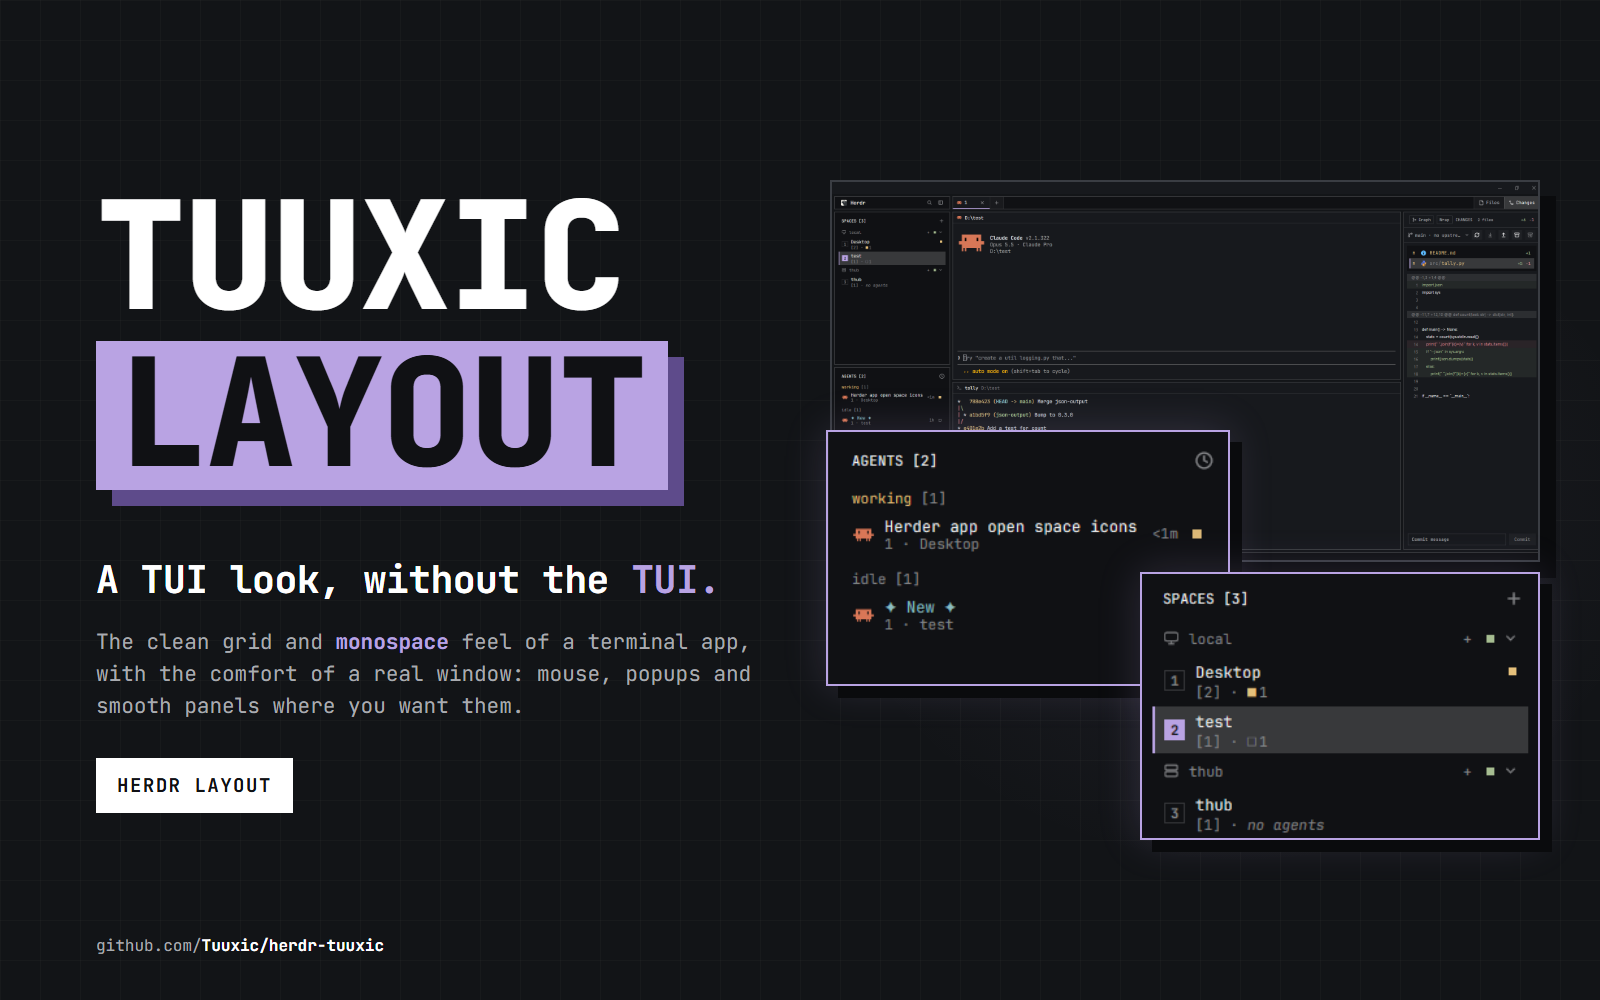
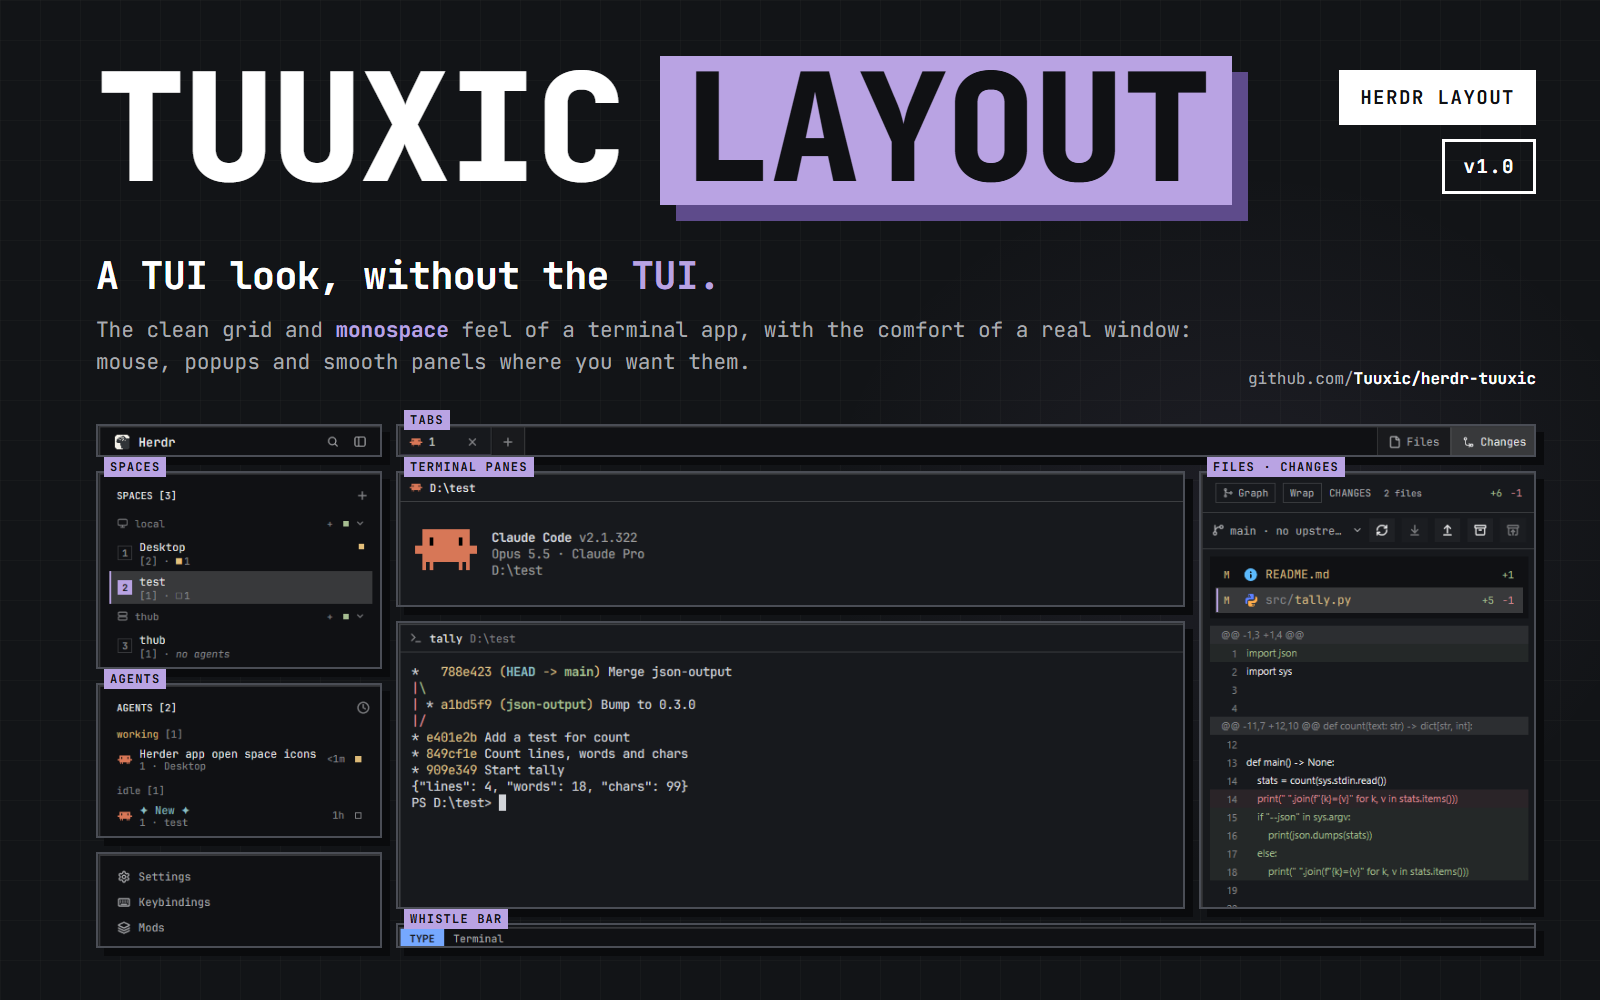
Poster: render E6 to preview.png, with the v1.0 chip and the URL on the body's last line

Changed region(s): [[0.0625, 0.031, 0.9688, 0.961]]

diff --git a/preview-src/poster.css b/preview-src/poster.css
@@ -24,7 +24,7 @@ body {
   position: relative;
 }
 
-/* title band: one-line title, tagline and body, chip and URL at the right */
+/* title band: one-line title, tagline and body; chips at the right, URL right-aligned on the body's last line */
 .title {
   position: absolute; left: 96px; top: 56px;
   font-weight: 800; line-height: 0.9; letter-spacing: -2px; white-space: nowrap;
@@ -46,7 +46,7 @@ body {
 .chip { font-size: 19px; font-weight: 700; letter-spacing: 1.5px; padding: 12px 18px; border: 3px solid var(--fg); }
 .chip.solid { background: var(--fg); color: #101114; }
 
-.url { position: absolute; right: 64px; top: 262px; font-size: 16px; color: var(--muted); }
+.url { position: absolute; right: 64px; top: 368px; font-size: 16px; color: var(--muted); }
 .url b { color: var(--fg); font-weight: 700; }
 
 /* layout blocks: crops of shot.png, pulled apart, each img positioned to show its block */

diff --git a/preview-src/index.html b/preview-src/index.html
@@ -8,7 +8,7 @@
   <div class="head">A TUI look, without the <em>TUI.</em></div>
   <div class="body">The clean grid and <b>monospace</b> feel of a terminal app, with the comfort of a real window: mouse, popups and smooth panels where you want them.</div>
 </div>
-<div class="chips"><span class="chip solid">HERDR LAYOUT</span></div>
+<div class="chips"><span class="chip solid">HERDR LAYOUT</span><span class="chip">v1.0</span></div>
 <div class="url">github.com/<b>Tuuxic/herdr-tuuxic</b></div>
 
 <!-- sidebar: brand, spaces, agents, footer -->
